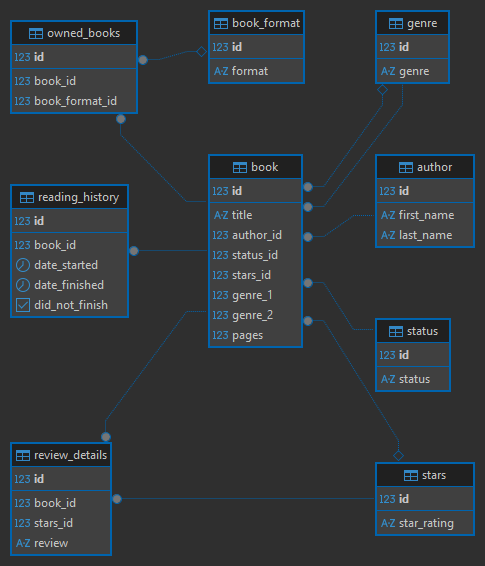
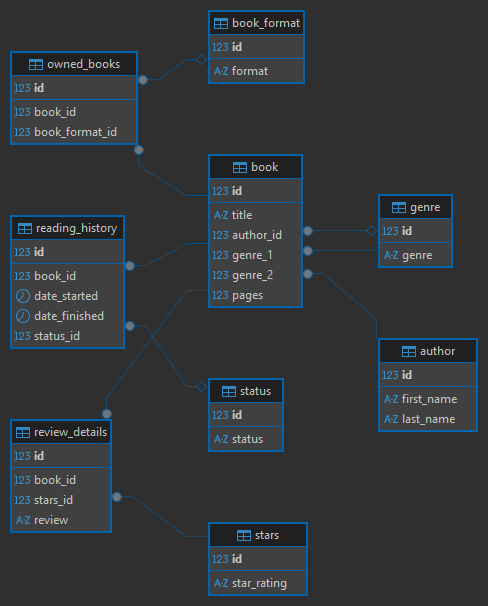
begin creating insert statements update README.md remove star_id from book table remove owned column from book table remove status_id from book table and update reading_history.did_not_finish to reading_history.status_id update DB diagram to reflect changes described above

diff --git a/README.md b/README.md
@@ -6,7 +6,11 @@ The Reading Tracker is a project that allows the user to track, rate, and review
 * Allow the user to track, rate, and review the books they've read and want to read
 * Provide detailed information about the user's reading history and books they own
 
-# Reading Tracker Database Structure
+## Reading Tracker Database Structure
+
+The Reading Tracker database was designed to be highly normalized in order to decrease redundancy and to increase efficiency storing the data.
+
+### Database Diagram
 
 ![DB diagram](/documents/Reading_Tracker_diagram.png)
 
@@ -24,12 +28,9 @@ The `book` table stores information about books the user has read or which they 
 | id | serial | primary key                     | unique identifier for each book record                                  |
 | title | varchar(500) | not null                        | the title of the book                                                   |
 | author_id | int | not null | foreign key referencing author(id)                                      |
-| status_id | int | not null | foreign key referencing status(id)                                      |
-| stars_id | int | | foreign key referencing stars(id)                                       |
 | genre_1 | int | not null | foreign key referencing genre(id) representing the book's primary genre |
 | genre_2 | int | | foreign key referencing genre(id) representing the book's secondary genre, if any |
 | pages | int | not null | the number of pages in the book |
-| owned | bool | | whether or not the user owns the book |
 
 ## Table: Author
 
@@ -100,7 +101,7 @@ The `reading_history` table contains information about which books the user has 
 | book_id     | int       | not null                        | foreign key referencing book(id)                                                      |
 | date_started | date | not null | the date the user started reading the book |
 | date_finished | date | | the date the user finished reading the book |
-| did_not_finish | bool | | optional field to denote books the user did not finish |
+| status_id | int | not null | foreign key referencing status(id)                                      |
 
 ## Table: Stars
 
